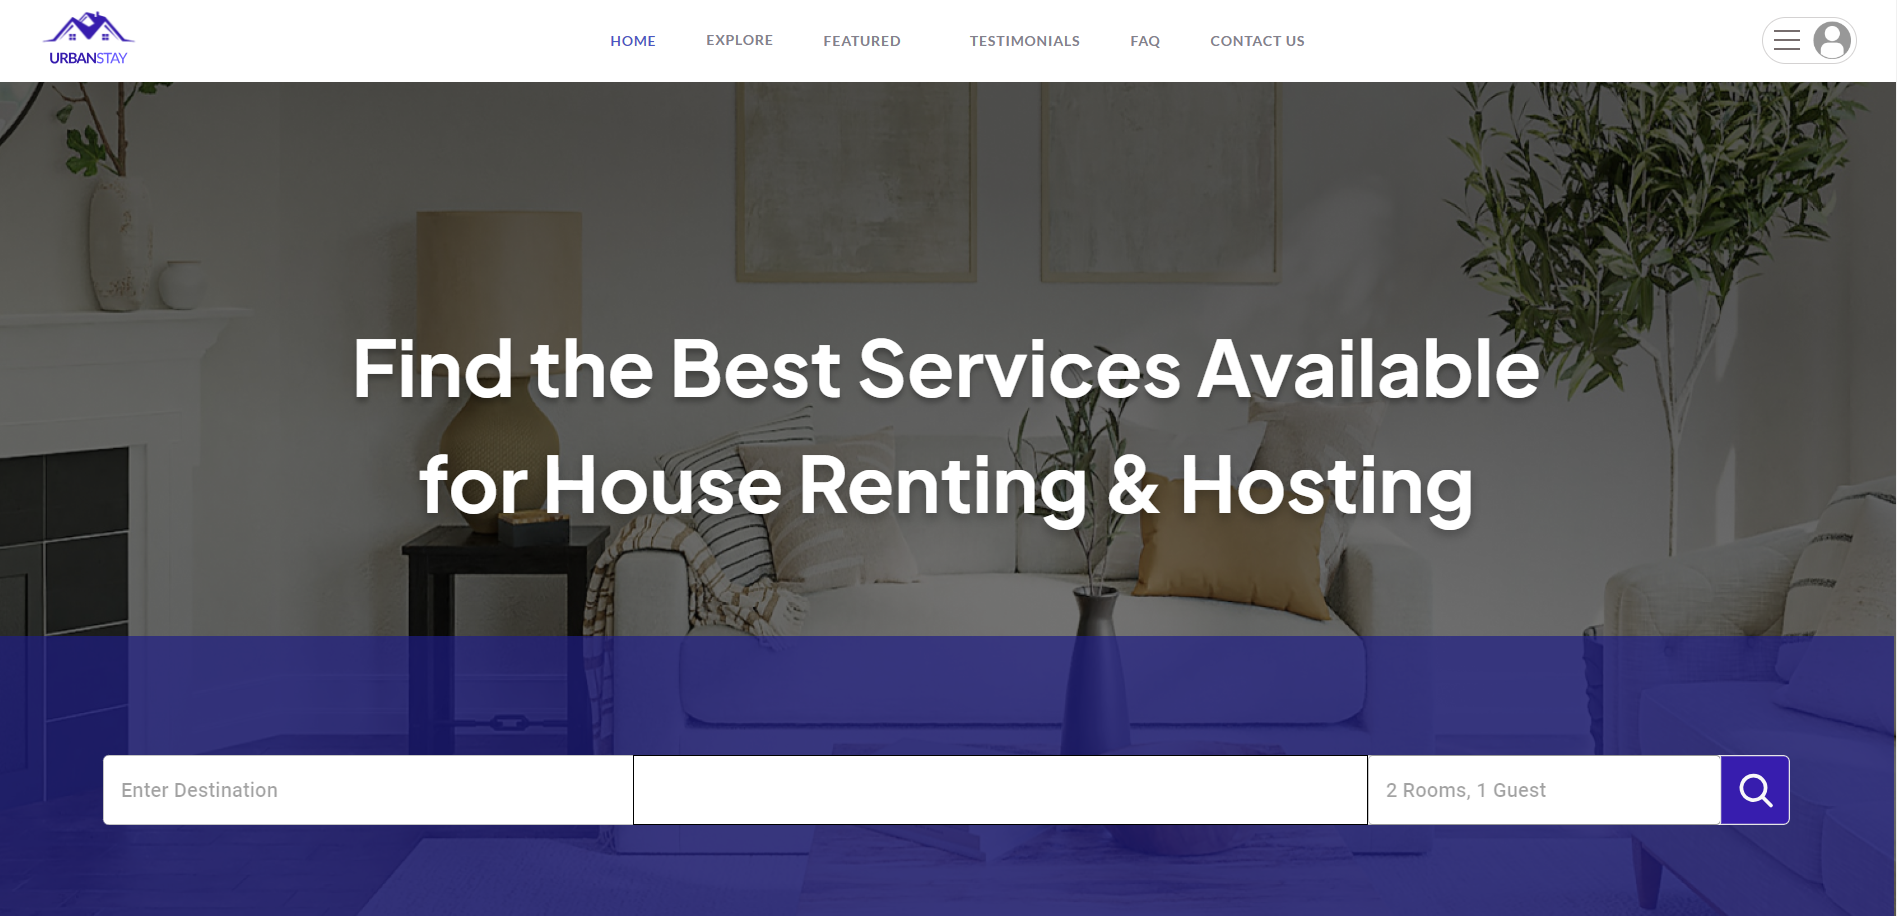
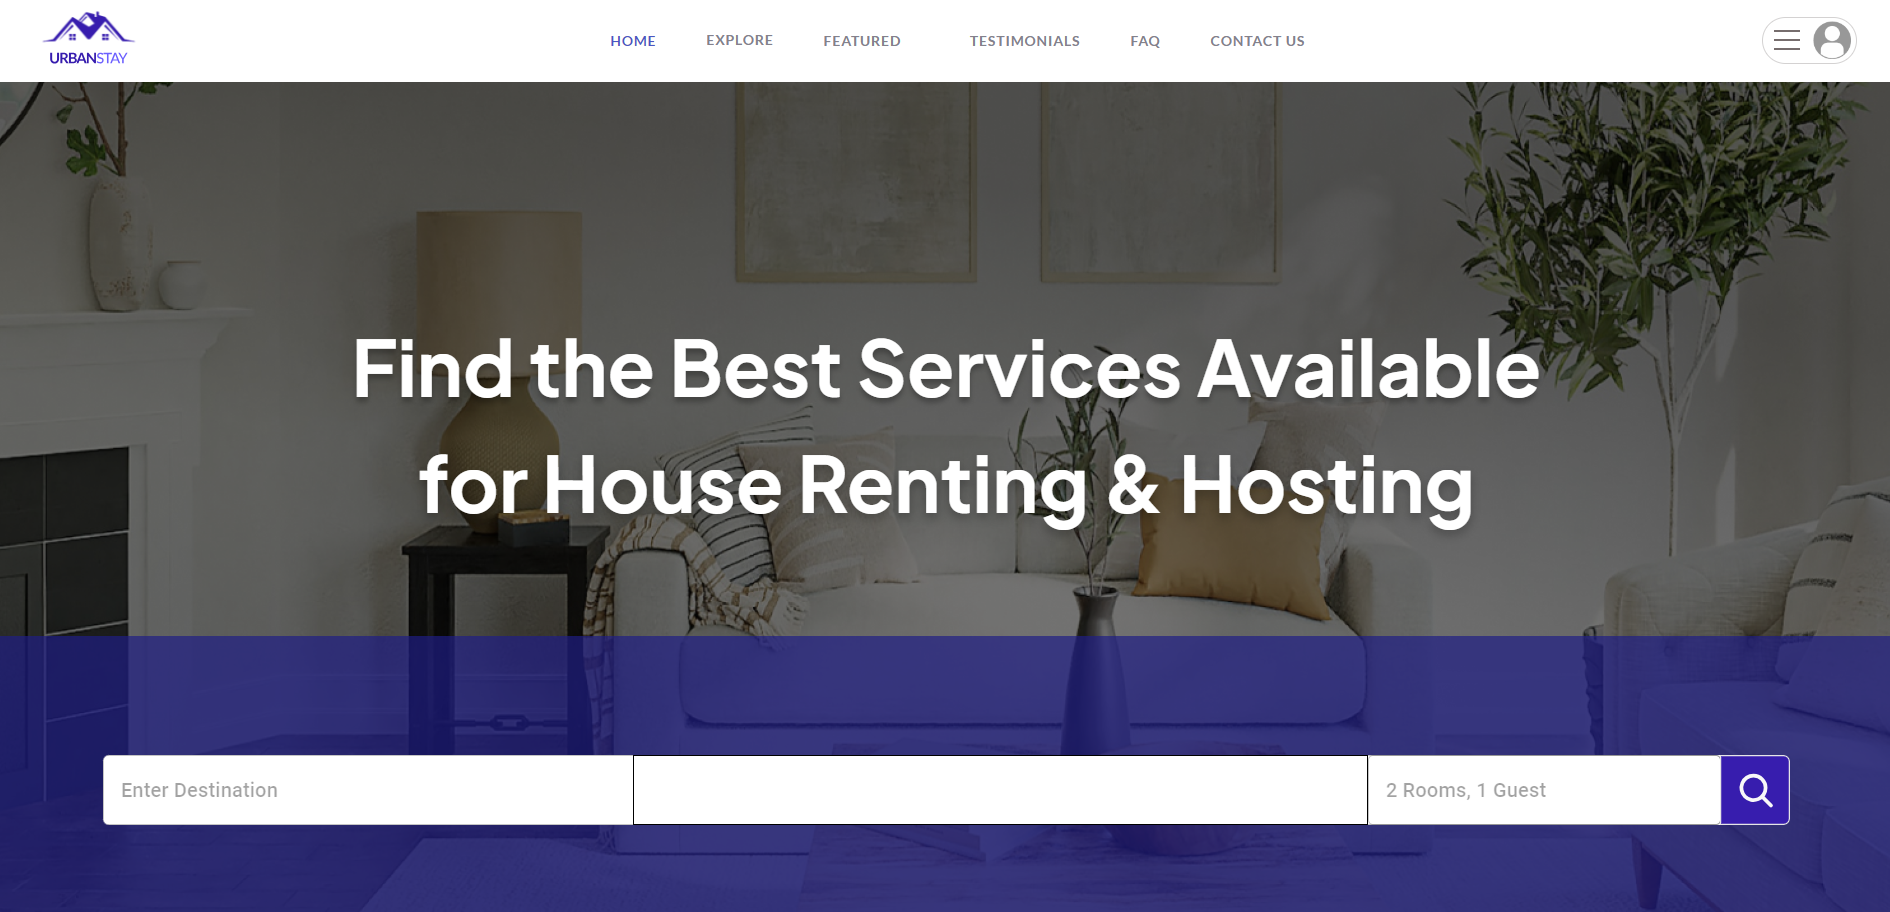
updated ReadMe

diff --git a/README.md b/README.md
@@ -2,7 +2,7 @@
 
 Welcome to UrbanStay – Your Ultimate Accommodation Solution!
 <br>
-![LandingPage](https://github.com/MayeeshaMusarrat/UrbanStay-Client-Side/assets/112959521/91b9a704-df9c-45ca-9247-0e5507d100fd)
+![LandingPage](https://github.com/MayeeshaMusarrat/UrbanStay-Client-Side/assets/112959521/3e7cb9cc-9421-4331-af83-c8c8e8d64236)
 
 ## Overview
 
